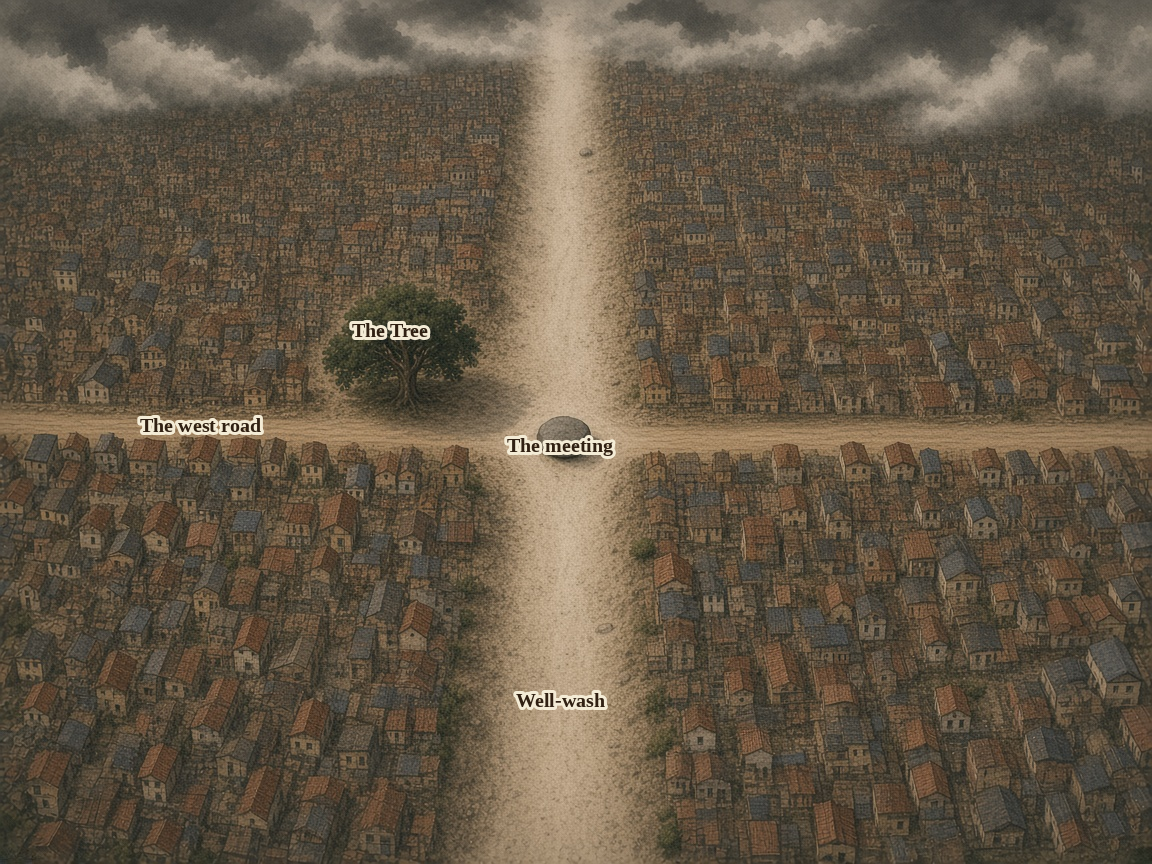
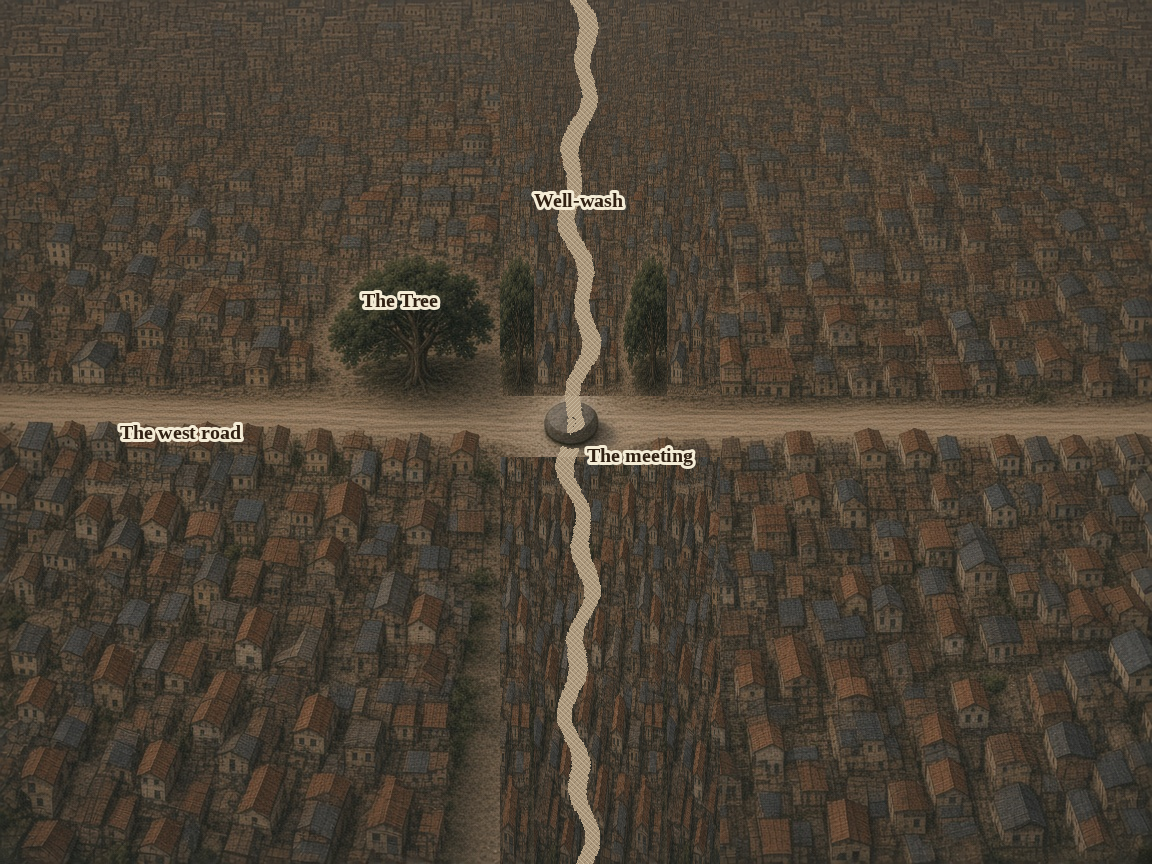
Add overhead plans and match the Rothallo gate and Larbril wash.
The gate sheet uses the same square gatehouse as the city plate, with the beds outside and the Book inside. Larbril's Well-wash is a silt-line, not a second road. Overhead plans cover the seated cities and towns.

diff --git a/14 - Assets/Maps/label_seat_plans.py b/14 - Assets/Maps/label_seat_plans.py
@@ -1,0 +1,145 @@
+#!/usr/bin/env python3
+"""Label the overhead plans of the cities and towns.
+
+Each plan is a new painting, strictly overhead, not a crop of an oblique
+plate. The image model was not asked to write. West is left.
+
+    python3 "14 - Assets/Maps/label_seat_plans.py"
+"""
+
+from __future__ import annotations
+
+from pathlib import Path
+
+from PIL import Image, ImageDraw, ImageFont
+
+
+ROOT = Path(__file__).resolve().parent
+FONT = Path("/usr/share/fonts/truetype/liberation/LiberationSerif-Bold.ttf")
+TYPE = (48, 32, 18)
+TYPE_WATER = (28, 48, 62)
+HALO = (244, 236, 214)
+
+
+def font(size: int) -> ImageFont.FreeTypeFont:
+    return ImageFont.truetype(str(FONT), size)
+
+
+def halo(draw, xy, text, face, fill):
+    draw.text(xy, text, font=face, fill=fill, anchor="mm", stroke_width=3, stroke_fill=HALO)
+
+
+def label(master: str, out: str, marks: list[tuple[int, int, str, tuple[int, int, int]]]) -> None:
+    base = Image.open(ROOT / master).convert("RGBA")
+    if base.size != (1152, 864):
+        raise SystemExit(f"{master} is {base.size}, expected 1152×864")
+    ink = ImageDraw.Draw(base)
+    face = font(20)
+    for x, y, text, fill in marks:
+        halo(ink, (x, y), text, face, fill)
+    base.convert("RGB").save(ROOT / out, quality=95)
+    print(f"Wrote {out}")
+
+
+def main() -> None:
+    T, W = TYPE, TYPE_WATER
+    label("Seinbrun-Plan-Atlas.png", "Seinbrun-Plan-Atlas-Labeled.png", [
+        (570, 370, "The Tree", T),
+        (700, 500, "The hall", T),
+        (450, 450, "The green", T),
+    ])
+    label("Rothallo-Plan-Atlas.png", "Rothallo-Plan-Atlas-Labeled.png", [
+        (570, 360, "The Tree", T),
+        (576, 700, "The gate", T),
+        (250, 800, "The beds", T),
+        (576, 530, "The Book", T),
+    ])
+    label("Larbril-Plan-Atlas.png", "Larbril-Plan-Atlas-Labeled.png", [
+        (400, 300, "The Tree", T),
+        (180, 432, "The west road", T),
+        (578, 180, "Well-wash", T),
+        (640, 455, "The meeting", T),
+    ])
+    label("Votaer-Plan-Atlas.png", "Votaer-Plan-Atlas-Labeled.png", [
+        (510, 430, "The Tree", T),
+        (340, 230, "Classification quay", T),
+    ])
+    label("Raitin-Plan-Atlas.png", "Raitin-Plan-Atlas-Labeled.png", [
+        (576, 430, "The hall", T),
+        (780, 500, "The Tree", T),
+        (576, 690, "The river stair", T),
+    ])
+    label("Naenor-Plan-Atlas.png", "Naenor-Plan-Atlas-Labeled.png", [
+        (560, 300, "The signing-watch", T),
+        (930, 280, "The Tree", T),
+    ])
+    label("Lunbra-Plan-Atlas.png", "Lunbra-Plan-Atlas-Labeled.png", [
+        (500, 310, "The Tree", T),
+        (720, 300, "The roll-room", T),
+        (610, 350, "The square", T),
+        (280, 530, "Chart-run", W),
+    ])
+    label("Braetu-Plan-Atlas.png", "Braetu-Plan-Atlas-Labeled.png", [
+        (240, 145, "The quote-desk", T),
+        (220, 430, "The unlit berth", T),
+        (760, 450, "The Tree", T),
+        (80, 80, "West Water", W),
+    ])
+    label("Maiethlir-Plan-Atlas.png", "Maiethlir-Plan-Atlas-Labeled.png", [
+        (500, 250, "The Tree", T),
+        (780, 340, "Tablet-hall", T),
+        (640, 280, "Loft Row", T),
+        (576, 70, "Grove Bank", T),
+        (80, 400, "Down Gate", T),
+        (500, 780, "Slow Water", W),
+    ])
+    label("Orentel-Plan-Atlas.png", "Orentel-Plan-Atlas-Labeled.png", [
+        (360, 120, "The Tree", T),
+        (280, 200, "The Rise", T),
+        (480, 280, "The Drop", T),
+        (520, 640, "First Quay", T),
+        (700, 310, "The Third", T),
+        (735, 345, "White Note", T),
+        (160, 720, "Chart mouth", W),
+        (1080, 520, "Crossing-mouth", W),
+    ])
+    label("Tasain-Plan-Atlas.png", "Tasain-Plan-Atlas-Labeled.png", [
+        (690, 370, "The Tree", T),
+        (576, 760, "The town gate", T),
+    ])
+    label("Sanbreo-Plan-Atlas.png", "Sanbreo-Plan-Atlas-Labeled.png", [
+        (767, 460, "The slate", T),
+        (790, 530, "The shore gate", T),
+    ])
+    label("Natai-Plan-Atlas.png", "Natai-Plan-Atlas-Labeled.png", [
+        (576, 520, "The town gate", T),
+        (790, 430, "The Tree", T),
+    ])
+    label("Eolvaeth-Plan-Atlas.png", "Eolvaeth-Plan-Atlas-Labeled.png", [
+        (570, 340, "The Tree", T),
+        (680, 420, "The spring", T),
+        (576, 520, "The gift-hall", T),
+    ])
+    label("Harrows-Green-Plan-Atlas.png", "Harrows-Green-Plan-Atlas-Labeled.png", [
+        (620, 370, "The Tree", T),
+        (620, 500, "The stone", T),
+    ])
+    label("Mill-hold-Plan-Atlas.png", "Mill-hold-Plan-Atlas-Labeled.png", [
+        (576, 400, "The Tree", T),
+        (576, 560, "The culvert", T),
+        (400, 820, "The mill-race", T),
+    ])
+    label("Ornsael-Plan-Atlas.png", "Ornsael-Plan-Atlas-Labeled.png", [
+        (545, 450, "The Tree", T),
+        (470, 490, "The well", T),
+        (180, 430, "The west-road", T),
+    ])
+    label("Nelath-Plan-Atlas.png", "Nelath-Plan-Atlas-Labeled.png", [
+        (400, 230, "The Tree", T),
+        (500, 480, "The stone", T),
+        (980, 360, "The scar", T),
+    ])
+
+
+if __name__ == "__main__":
+    main()

diff --git a/14 - Assets/Maps/label_larbril.py b/14 - Assets/Maps/label_larbril.py
@@ -38,10 +38,11 @@ def build() -> Image.Image:
     canvas = base.copy()
     ink = ImageDraw.Draw(canvas)
     place = font(SERIF_BOLD, 20)
-    halo_text(ink, (390, 330), "The Tree", place, TYPE)
-    halo_text(ink, (560, 445), "The meeting", place, TYPE)
-    halo_text(ink, (200, 425), "The west road", place, TYPE)
-    halo_text(ink, (560, 700), "Well-wash", place, TYPE)
+    # The Hand beside the crossing. The wash is the thin silt, not a second road.
+    halo_text(ink, (400, 300), "The Tree", place, TYPE)
+    halo_text(ink, (180, 432), "The west road", place, TYPE)
+    halo_text(ink, (578, 200), "Well-wash", place, TYPE)
+    halo_text(ink, (640, 455), "The meeting", place, TYPE)
     return canvas.convert("RGB")
 
 

diff --git a/14 - Assets/Maps/label_rothallo_gate.py b/14 - Assets/Maps/label_rothallo_gate.py
@@ -38,9 +38,10 @@ def build() -> Image.Image:
     canvas = base.copy()
     ink = ImageDraw.Draw(canvas)
     place = font(SERIF_BOLD, 20)
-    halo_text(ink, (400, 400), "The gate", place, TYPE)
-    halo_text(ink, (100, 600), "The beds", place, TYPE)
-    halo_text(ink, (730, 370), "The Book", place, TYPE)
+    # Same gatehouse as the city plate. Beds outside. Book inside the wall.
+    halo_text(ink, (520, 500), "The gate", place, TYPE)
+    halo_text(ink, (160, 430), "The beds", place, TYPE)
+    halo_text(ink, (610, 290), "The Book", place, TYPE)
     return canvas.convert("RGB")
 
 

diff --git a/14 - Assets/Maps/Map Generation Tooling.md b/14 - Assets/Maps/Map Generation Tooling.md
@@ -500,9 +500,10 @@ python3 "14 - Assets/Maps/label_braetu_quay.py"
 python3 "14 - Assets/Maps/label_tasain.py"
 python3 "14 - Assets/Maps/label_sanbreo.py"
 python3 "14 - Assets/Maps/label_natai.py"
+python3 "14 - Assets/Maps/label_seat_plans.py"
 ```
 
-These write the labeled overlays for **Epic A** (A.1–A.14). A.14 added two city sheets, `Maiethlir-City-Atlas.png` and `Orentel-City-Atlas.png`: new paintings, not crops of Sacred Core, Chart-run, Old Crossing, or the continent masters. A later pass the same day redrew both cities so the roofs fill the sheet, then redrew `Maiethlir-Heart-Atlas.png` and `Orentel-Drop-Atlas.png` from those plates so the Tree stays in the same place. The Orentel drop is the Rise inside the roofs and does not show the quays. Labels come from the [[Maiethlir]] and [[Orentel]] notes. The image model was not asked to write. Unlabeled Prototype 3 sheets stay the regional handouts. A 2026-09-23 pass removed subtitles, epithet lines, and the survey footer: a label is the name, with a point or leader only when it needs one. Water names follow the water through `label_curves.py`. Relative seats follow the Known Map schematic and the settlement notes. Kumbaan receives only land-type and the storm-wall along its outer cloud-ring: no point marker, graft, city, harbour, safe channel, or Tree. On the Old Crossing sheet, the Hush-rate is a crossing-charge cartouche, not a line or political border. Sacred Core receives one canopy-ring for Thaeloren, a walled-town square for the Inner Close, a modest road-house mark for the Third Hearth, and a plain settlement dot for Maiethlir; none is a capital star. On the Rain-Wall sheet, Rain-Wall is primary, Lirorn's Thaw-Wall handle is secondary, and the two pass-notches add no border or Kind-territory fill. On the Rain-Shadow sheet, Ornsael is a plain well-town, the Dry Stair is a site-mark on a different rise, and the Well-wash is seasonal hydrology; the Stair's well-town, terraces, and far-east roofs stay unnamed, with no capital star or Fox-nation fill. On the Chart-run sheet, the Chart-run follows the interior river into the estuary, the first quay is the old landing, and the White Note is a desk-house on the third quay north side, not a crown; leap-frog warehouses, the south-mouth yards, and filed river-towns stay unnamed, with no capital star. On the West Water sheet, the West Water names the open ocean and the Night Shore is area-type on the west-and-south face; the unlit berth, hulls, harbour hatches, and far-left weather stay unnamed, with no capital star or Night Shore seat. On the Live Front sheet, Harrow's is a plain grove-town on the rise, the Rise-water follows the stream toward the ford, and Brenod / Vaelun / Ornath are three small downstream hearths; the ford, the cup-rock, and distant canopy-pockets stay unnamed, with no capital star. On the Waiting Vale sheet, the vale is area-type, the spring is a pool-mark at the track-junction water, and Eolvaeth is a pilgrim-edge with no capital star; Harrow's canopy, the coast sliver, the garden-grid, and the inland ridge stay unnamed. Incidental generated roofs, field-grids, standing stones, wrecks, clearings, extra painted isles, and unnamed quays stay unnamed. Unlabeled sheets remain the selected handouts. Epic A is complete; copy this overlay pattern if a later sheet is needed, and do not ask the image model to write. Story M.1 (2026-10-03) added two closer paintings, `Orentel-Piers-Atlas.png` and `Maiethlir-Grove-Bank-Atlas.png`, labeled by the two scripts above. They are not crops of the regional masters or of the four city paintings already in the atlas. The pier sheet is the tide. The Grove Bank sheet is the north road. The image model was not asked to write. Story M.2 (2026-10-03) added six paintings beside those scripts: `Eolvaeth-Atlas.png`, `Harrows-Green-Atlas.png`, `Mill-hold-Atlas.png`, `Ornsael-Atlas.png`, `Nelath-Atlas.png`, and `Ndenjoo-Atlas.png`. They are not crops of the regional masters, the continent masters, the city plates, the heart sheet, the drop sheet, the pier sheet, or the Grove Bank sheet. A town fills its frame as a town. Ndenjoo is one hill and has no Tree. Rothallo was not painted in M.2. The image model was not asked to write. Story M.3 (2026-10-03) added thirteen paintings beside those scripts: `Seinbrun-Atlas.png`, `Rothallo-Atlas.png`, `Rothallo-Gate-Atlas.png`, `Larbril-Atlas.png`, `Votaer-Atlas.png`, `Raitin-Atlas.png`, `Naenor-Atlas.png`, `Lunbra-Atlas.png`, `Braetu-Atlas.png`, `Braetu-Quay-Atlas.png`, `Tasain-Atlas.png`, `Sanbreo-Atlas.png`, and `Natai-Atlas.png`. They are not crops of the regional masters, the continent masters, the city plates, the heart sheet, the drop sheet, the pier sheet, the Grove Bank sheet, or the M.2 town sheets. A city fills its frame as a city. A town fills its frame as a town. Rothallo is the Inner Close. The gate sheet holds the beds outside and the Book inside. The Braetu quay sheet holds the quote-desk and the unlit berth. Vaelhesk has no sheet. The six charter-towns were not painted. The image model was not asked to write.
+These write the labeled overlays for **Epic A** (A.1–A.14). A.14 added two city sheets, `Maiethlir-City-Atlas.png` and `Orentel-City-Atlas.png`: new paintings, not crops of Sacred Core, Chart-run, Old Crossing, or the continent masters. A later pass the same day redrew both cities so the roofs fill the sheet, then redrew `Maiethlir-Heart-Atlas.png` and `Orentel-Drop-Atlas.png` from those plates so the Tree stays in the same place. The Orentel drop is the Rise inside the roofs and does not show the quays. Labels come from the [[Maiethlir]] and [[Orentel]] notes. The image model was not asked to write. Unlabeled Prototype 3 sheets stay the regional handouts. A 2026-09-23 pass removed subtitles, epithet lines, and the survey footer: a label is the name, with a point or leader only when it needs one. Water names follow the water through `label_curves.py`. Relative seats follow the Known Map schematic and the settlement notes. Kumbaan receives only land-type and the storm-wall along its outer cloud-ring: no point marker, graft, city, harbour, safe channel, or Tree. On the Old Crossing sheet, the Hush-rate is a crossing-charge cartouche, not a line or political border. Sacred Core receives one canopy-ring for Thaeloren, a walled-town square for the Inner Close, a modest road-house mark for the Third Hearth, and a plain settlement dot for Maiethlir; none is a capital star. On the Rain-Wall sheet, Rain-Wall is primary, Lirorn's Thaw-Wall handle is secondary, and the two pass-notches add no border or Kind-territory fill. On the Rain-Shadow sheet, Ornsael is a plain well-town, the Dry Stair is a site-mark on a different rise, and the Well-wash is seasonal hydrology; the Stair's well-town, terraces, and far-east roofs stay unnamed, with no capital star or Fox-nation fill. On the Chart-run sheet, the Chart-run follows the interior river into the estuary, the first quay is the old landing, and the White Note is a desk-house on the third quay north side, not a crown; leap-frog warehouses, the south-mouth yards, and filed river-towns stay unnamed, with no capital star. On the West Water sheet, the West Water names the open ocean and the Night Shore is area-type on the west-and-south face; the unlit berth, hulls, harbour hatches, and far-left weather stay unnamed, with no capital star or Night Shore seat. On the Live Front sheet, Harrow's is a plain grove-town on the rise, the Rise-water follows the stream toward the ford, and Brenod / Vaelun / Ornath are three small downstream hearths; the ford, the cup-rock, and distant canopy-pockets stay unnamed, with no capital star. On the Waiting Vale sheet, the vale is area-type, the spring is a pool-mark at the track-junction water, and Eolvaeth is a pilgrim-edge with no capital star; Harrow's canopy, the coast sliver, the garden-grid, and the inland ridge stay unnamed. Incidental generated roofs, field-grids, standing stones, wrecks, clearings, extra painted isles, and unnamed quays stay unnamed. Unlabeled sheets remain the selected handouts. Epic A is complete; copy this overlay pattern if a later sheet is needed, and do not ask the image model to write. Story M.1 (2026-10-03) added two closer paintings, `Orentel-Piers-Atlas.png` and `Maiethlir-Grove-Bank-Atlas.png`, labeled by the two scripts above. They are not crops of the regional masters or of the four city paintings already in the atlas. The pier sheet is the tide. The Grove Bank sheet is the north road. The image model was not asked to write. Story M.2 (2026-10-03) added six paintings beside those scripts: `Eolvaeth-Atlas.png`, `Harrows-Green-Atlas.png`, `Mill-hold-Atlas.png`, `Ornsael-Atlas.png`, `Nelath-Atlas.png`, and `Ndenjoo-Atlas.png`. They are not crops of the regional masters, the continent masters, the city plates, the heart sheet, the drop sheet, the pier sheet, or the Grove Bank sheet. A town fills its frame as a town. Ndenjoo is one hill and has no Tree. Rothallo was not painted in M.2. The image model was not asked to write. Story M.3 (2026-10-03) added thirteen paintings beside those scripts: `Seinbrun-Atlas.png`, `Rothallo-Atlas.png`, `Rothallo-Gate-Atlas.png`, `Larbril-Atlas.png`, `Votaer-Atlas.png`, `Raitin-Atlas.png`, `Naenor-Atlas.png`, `Lunbra-Atlas.png`, `Braetu-Atlas.png`, `Braetu-Quay-Atlas.png`, `Tasain-Atlas.png`, `Sanbreo-Atlas.png`, and `Natai-Atlas.png`. They are not crops of the regional masters, the continent masters, the city plates, the heart sheet, the drop sheet, the pier sheet, the Grove Bank sheet, or the M.2 town sheets. A city fills its frame as a city. A town fills its frame as a town. Rothallo is the Inner Close. The gate sheet holds the beds outside and the Book inside. The Braetu quay sheet holds the quote-desk and the unlit berth. Vaelhesk has no sheet. The six charter-towns were not painted. The image model was not asked to write. A later pass the same day redrew `Rothallo-Gate-Atlas.png` so the gatehouse matches the city plate, with the beds outside and the Book inside, and redrew `Larbril-Atlas.png` so the Well-wash is a thin silt-line and the west road is the only street. Overhead plans of the cities and towns were added beside those scripts and labeled by `label_seat_plans.py`: Seinbrun, Rothallo, Larbril, Votaer, Raitin, Naenor, Lunbra, Braetu, Maiethlir, Orentel, Tasain, Sanbreo, Natai, Eolvaeth, Harrow's Green, the Mill-hold, Ornsael, and Nelath. Each plan is a new overhead painting, not a crop. Vaelhesk has no plan. Ndenjoo has no plan.
 
 Suggested first labels, not a new gazetteer:
 

diff --git a/00 - Core/Concept/Build Plan.md b/00 - Core/Concept/Build Plan.md
@@ -24,7 +24,7 @@ updated: 2026-10-03
 
 **Story M.1 — Details the two cities still lack ✅ (2026-10-03).** Two closer paintings, not crops of the regional masters or of the four city sheets already in the atlas. [[Orentel]] piers: the tide, the Rise off the inland edge, labels First Quay, The Third, and White Note. The White Note is one desk-house on the north quay. [[Maiethlir]] Grove Bank: the north road, the gate in the old flood-wall, the wood a dark behind the gate and unlabeled. The First Seat is not marked. No capital star. The image model was not asked to write. The city plates, the heart sheet, and the drop sheet were not redrawn. World book untouched.
 
-**Epic M — Town sheets and the new seats 🟡 (M.3 done 2026-10-03).** M.3 is in. City plates: [[Seinbrun]], [[Rothallo]], [[Larbril]], [[Votaer]], [[Raitin]], [[Naenor]], [[Lunbra]], [[Braetu]]. Town sheets: [[Tasain]], [[Sanbreo]], [[Natai]]. Rothallo is the Inner Close, the same place, one day from the wood. The gate sheet holds the beds outside and the Book inside. The Braetu quay sheet holds the quote-desk and the unlit berth. [[Vaelhesk]] has no sheet and no dot. The six charter-towns were not painted. New paintings. The image model was not asked to write. No capital star. M.2 town sheets stay: [[Eolvaeth]], [[Harrow's Green]], [[The Mill-hold]], [[Ornsael]], [[Nelath]], [[Ndenjoo]]. M.4 (2026-10-03): capitals, large cities, and important towns get a plain pointer and a label on [[The Known Map]] and on the continent and region overlays that already show that ground. The painting stays. Pillow on the existing master. A mark only where the notes already place the place. Vaelhesk gets no dot. Unlabeled handouts stay unlabeled. No capital star. Notes win. The image model does not write. M.4 was not opened.
+**Epic M — Town sheets and the new seats 🟡 (M.3 done 2026-10-03).** M.3 is in. City plates: [[Seinbrun]], [[Rothallo]], [[Larbril]], [[Votaer]], [[Raitin]], [[Naenor]], [[Lunbra]], [[Braetu]]. Town sheets: [[Tasain]], [[Sanbreo]], [[Natai]]. Rothallo is the Inner Close, the same place, one day from the wood. The gate sheet is the same square gatehouse as the city plate: beds outside, Book inside. Larbril's Well-wash is a silt-line, not a road. Overhead plans sit beside the oblique plates for the seated cities and towns (`label_seat_plans.py`). The Braetu quay sheet holds the quote-desk and the unlit berth. [[Vaelhesk]] has no sheet and no dot. The six charter-towns were not painted. New paintings. The image model was not asked to write. No capital star. M.2 town sheets stay: [[Eolvaeth]], [[Harrow's Green]], [[The Mill-hold]], [[Ornsael]], [[Nelath]], [[Ndenjoo]]. M.4 (2026-10-03): capitals, large cities, and important towns get a plain pointer and a label on [[The Known Map]] and on the continent and region overlays that already show that ground. The painting stays. Pillow on the existing master. A mark only where the notes already place the place. Vaelhesk gets no dot. Unlabeled handouts stay unlabeled. No capital star. Notes win. The image model does not write. M.4 was not opened.
 
 **Epic L — The lived world ✅ (L.9 done 2026-10-03).** **L.1 is in** → [[How a Place Speaks]]. **L.2 is in** → faces on the years: [[Hildal]], [[Limrae]], [[Dirrol]], [[Narol of the Pass]], [[Taerso]], all still argued; around the Walk and the Cut, [[Monseoth]] (praised), [[Rithnali]] (still argued), [[Sedrad]] (condemned). The cutter stays unpicked. **L.3 is in** → the felt year: [[What the Year Feels Like]], [[How the Week Is Kept]] (Maiethlir, Orentel, Eolvaeth; Ndenjoo keeps supper), [[When the Town Buries]], [[The Guest-Meal]], [[When Someone Is Struck]], [[Maieth]] as belief, [[The Houses and the Years]] as a door. [[The Unspent]] moved under Deities. **L.4 is in** → second names on the NPC notes (house in Maiethlir and on Hithaen's unsaid line; byname where people are witnessed; Thilim of the Held bed; Njunda the given name), [[Leaders]], [[Heroes and Villains]]. **L.5 is in** → [[Nelath]] seats the road-end (the spur stops; not Harrow's, not Brenthael, not the Mill-hold). [[Maiethlir]] has the Loft Row; [[Orentel]] has the Drop; [[Eolvaeth]] stays a town. Villages: [[Raillath]], [[Denlad]], [[Tunral]]. The Down-Bank is the stretch between Maiethlir and the Hinge Shore. The Low Wall's dig is one summer, not a discipline. [[The Sky from the Ground]], three phenomena, and [[Planes]] (this world does not have them). Continents stay in `01 - World/Geography`. **L.6 is in** → stock hearth-glances on [[Kinds of the Turning]]: nine groups, where each is dense, one kitchen habit, what they do not own. No Kind-nations. No new features. The four custom Kinds stay as written. Mechanics stay on [[Kind Heritage]]. L.6 was not opened in the L.5 pass, and it was not opened when the city sheets were drawn. **L.7 is in** → [[The Slide]], [[The Holding Desk]], and [[The Standing Trade]] live under `05 - Factions/Criminal`. No fourth syndicate. [[The Protectors]] stay a public care. [[Craft Fellowships]] are the mill-share, the hull-wrights, and the road-mend, and they are not tickets. [[The Watch and the Cohort]] is the town watch, a send when a Hand cannot Turn the week, the Inner Close's wall, and the Hush-rate. [[Movements]]: the pear-graft (past), the withdrawers (present), the disinherited (present). **L.8 is in** → [[How the Work Is Done]] (domains are jobs; a Spoken colour is the warden's sentence; [[Conditions]] stay put). [[A Made Thing]] has a maker and a problem, and is not a people. [[The Cart-Ox]], [[The Terrace Goat]], and [[The Path Dog]] each have a use and a fear. [[Kin at the Door]] is a meal and a Returned person. [[The Spent Leaf]] and [[The Closed Lamp]] stay. [[The Other Chip]] and [[The Dry Slip]] are true. [[The Ribboned Knife]] and [[The Socket Ribbon]] are embellished. [[The One Knife]] was never found. [[What a Place Needed]] is the short list, with no ladder. [[Mysteries]], [[Revelations]], and [[Clues]] point at [[Revelation Architecture]] and [[Reveal Index]]. No secret note was moved. [[The Name-Stone Bed]] and [[A Buyer for the Knife]] are the two afternoons. The keystone was not fired. The cutter stays unpicked. **L.9 is in** → empty folders that were decisions now point at the notes that hold them: [[Schools]], [[Traditions]], [[Systems]], [[Artifacts]], [[Monsters]], [[Unique]], [[Weapons]], [[Armor]], [[Equipment]], [[Materials]], [[Historical Figures]], [[Archaeology]], [[Heroes]], [[Villains]], [[Movements Home]], [[Rules]], [[Mechanics]], [[Encounters]], [[Tables]], [[Daggerheart]], [[The Selected Handouts]]. Canon, Cosmology, Themes, magic Practices, magic Phenomena, Images, and References stay empty shelf. Prototype 1, Prototype 2, and the Heskoren label-trial image are under `99 - Archive/Atlas/`. Prototype 3 masters, labeled overlays, label scripts, unlabeled handouts, and the reference painting stay. Epic S and Epic M were not opened. **Story A.14** is in (2026-10-02): city sheets for [[Maiethlir]] and [[Orentel]] from the layout already written. It does not replace L.6 and it does not reopen the regional overlays. Empty sidebar folders are often misfiles, not missing worlds. Full map of what to write, what to rehome, and what not to fill: [[Roadmap#Epic L — The lived world]].
 

diff --git a/14 - Assets/Maps/The Atlas Sheets.md b/14 - Assets/Maps/The Atlas Sheets.md
@@ -396,7 +396,7 @@ Orenbren's walled capital, one day from the wood. People still say the Inner Clo
 
 ![[Rothallo-Gate-Atlas.png]]
 
-The city plate could not hold the beds outside and the Book inside. This is that gate. Rebuild with `label_rothallo_gate.py`.
+The same square gatehouse as the city plate. Beds outside the wall. The Book inside it. Rebuild with `label_rothallo_gate.py`.
 
 ![[Rothallo-Gate-Atlas-Labeled.png]]
 
@@ -404,7 +404,7 @@ The city plate could not hold the beds outside and the Book inside. This is that
 
 ![[Larbril-Atlas.png]]
 
-A medium city. No wall. The west road meets the Well-wash. The wash in this frame is a silt-line. A Hand at the meeting. Rebuild with `label_larbril.py`.
+A medium city. No wall. The west road is the street. The Well-wash is the thin silt-line that crosses it, not a second road. A Hand at the meeting. Rebuild with `label_larbril.py`.
 
 ![[Larbril-Atlas-Labeled.png]]
 
@@ -484,9 +484,9 @@ A march-town. The town gate is on the road. A young Hand. Rebuild with `label_na
 
 **Rothallo.** `Rothallo-Atlas-Labeled.png` is a Pillow overlay on `Rothallo-Atlas.png`. West is left. This is the Inner Close. **The gate** is the argument. **The beds** are outside the wall. **The Tree** is the Hand inside the walls. The city does not Speak it. The Book is on the gate sheet. The First Seat stays in the wood, unnamed: no college, no throne, no canopy-ring, and no mark. Thaeloren is not on this sheet. No capital star. Script: `label_rothallo.py`.
 
-**Rothallo gate.** `Rothallo-Gate-Atlas-Labeled.png` is a Pillow overlay on `Rothallo-Gate-Atlas.png`. West is left. **The gate** is the same gate. **The beds** are outside. **The Book** is the Book of Tithes, inside the wall. No capital star. Script: `label_rothallo_gate.py`.
+**Rothallo gate.** `Rothallo-Gate-Atlas-Labeled.png` is a Pillow overlay on `Rothallo-Gate-Atlas.png`. West is left. **The gate** is the same square gatehouse as the city plate. **The beds** are outside. **The Book** is the Book of Tithes, inside the wall. No capital star. Script: `label_rothallo_gate.py`.
 
-**Larbril.** `Larbril-Atlas-Labeled.png` is a Pillow overlay on `Larbril-Atlas.png`. West is left. **The meeting** is where the west road meets the Well-wash. **The west road** leaves toward the pass. **Well-wash** is a silt-line in this frame. **The Tree** stands at the meeting. No wall. Not Ornsael. Not the Dry Stair. No capital star. Script: `label_larbril.py`.
+**Larbril.** `Larbril-Atlas-Labeled.png` is a Pillow overlay on `Larbril-Atlas.png`. West is left. **The meeting** is the stone where the west road crosses the wash. **The west road** is the street and leaves toward the pass. **Well-wash** is the thin silt-line, not a road. **The Tree** stands at the meeting. No wall. Not Ornsael. Not the Dry Stair. No capital star. Script: `label_larbril.py`.
 
 **Votaer.** `Votaer-Atlas-Labeled.png` is a Pillow overlay on `Votaer-Atlas.png`. West is left. The sea is on the left. **Classification quay** is the working waterfront. **The Tree** stands back from that quay. The blessing and the docket are the same quay. No White Note. No Chart-run. No closer sheet. No capital star. Script: `label_votaer.py`.
 
@@ -505,6 +505,29 @@ A march-town. The town gate is on the road. A young Hand. Rebuild with `label_na
 **Sanbreo.** `Sanbreo-Atlas-Labeled.png` is a Pillow overlay on `Sanbreo-Atlas.png`. West is left. The sea is on the right. **The shore gate** meets the beach. **The slate** is on the wall inside the gate. The line is not written on it. No civic Hand is the subject. Not a harbour city. No capital star. Script: `label_sanbreo.py`.
 
 **Natai.** `Natai-Atlas-Labeled.png` is a Pillow overlay on `Natai-Atlas.png`. West is left. The frame is the town. **The town gate** is on the road. **The Tree** is a young Hand. Harrow's Green, the ford, and the three hamlets are not drawn. Dumu is not labeled. No capital star. Script: `label_natai.py`.
+
+## Overhead plans — 2026-10-03
+
+The oblique plates stay. These are separate overhead plans of the same cities and towns, so the streets, walls, and water can be read as a map. West is left. Masters are 1152×864. The image model was not asked to write. Pillow labels in `label_seat_plans.py` use the names already on each settlement note. No capital star. Vaelhesk has no plan. Ndenjoo is a village and has no plan. The six charter-towns were not painted.
+
+![[Seinbrun-Plan-Atlas-Labeled.png]]
+![[Rothallo-Plan-Atlas-Labeled.png]]
+![[Larbril-Plan-Atlas-Labeled.png]]
+![[Votaer-Plan-Atlas-Labeled.png]]
+![[Raitin-Plan-Atlas-Labeled.png]]
+![[Naenor-Plan-Atlas-Labeled.png]]
+![[Lunbra-Plan-Atlas-Labeled.png]]
+![[Braetu-Plan-Atlas-Labeled.png]]
+![[Maiethlir-Plan-Atlas-Labeled.png]]
+![[Orentel-Plan-Atlas-Labeled.png]]
+![[Tasain-Plan-Atlas-Labeled.png]]
+![[Sanbreo-Plan-Atlas-Labeled.png]]
+![[Natai-Plan-Atlas-Labeled.png]]
+![[Eolvaeth-Plan-Atlas-Labeled.png]]
+![[Harrows-Green-Plan-Atlas-Labeled.png]]
+![[Mill-hold-Plan-Atlas-Labeled.png]]
+![[Ornsael-Plan-Atlas-Labeled.png]]
+![[Nelath-Plan-Atlas-Labeled.png]]
 
 ## Epic M pointers — 2026-10-03
 

diff --git a/00 - Core/Meta/Roadmap.md b/00 - Core/Meta/Roadmap.md
@@ -1065,6 +1065,8 @@ After S.1–S.3. A city gets a city plate. If that plate cannot hold the tension
 
 > **M.3 recorded decisions (2026-10-03).** Thirteen new paintings, not crops of the regional masters, the continent masters, the city plates, the heart sheet, the drop sheet, the pier sheet, the Grove Bank sheet, or the M.2 town sheets. The image model was not asked to write. Pillow on those masters. Masters are 1152×864. West is left. No capital star. A civic Hand is a broad dark hardwood filling its square. Thaeloren is not on these sheets. Vaelhesk has no sheet and no dot. The six charter-towns were not painted. Unlabeled Prototype 3 sheets stay the regional handouts. World book untouched. M.4 was not opened.
 
+> **Follow-up the same day.** The Rothallo gate sheet was redrawn so the gatehouse is the square gate on the city plate. The beds stay outside. The Book stays inside. Larbril's Well-wash is the thin silt-line. It is not a road. The west road is the only street. Overhead plans were added for the cities and towns already seated: Seinbrun, Rothallo, Larbril, Votaer, Raitin, Naenor, Lunbra, Braetu, Maiethlir, Orentel, Tasain, Sanbreo, Natai, Eolvaeth, Harrow's Green, the Mill-hold, Ornsael, Nelath. Script: `label_seat_plans.py`. Vaelhesk has no plan. Ndenjoo has no plan. The oblique plates stay. M.4 was not opened. World book untouched.
+
 > **Seinbrun.** `Seinbrun-Atlas.png`, `label_seinbrun.py`. A large city off the water. No wall. Labels: the hall, the green, the Tree. One plate holds the hall and the green. No closer sheet.
 
 > **Rothallo.** `Rothallo-Atlas.png`, `label_rothallo.py`. Orenbren's walled capital, one day from the wood. People still say the Inner Close. It is the same place. Labels: the gate, the beds, the Tree. The Book is on the gate sheet. The First Seat stays in the wood, unnamed.
